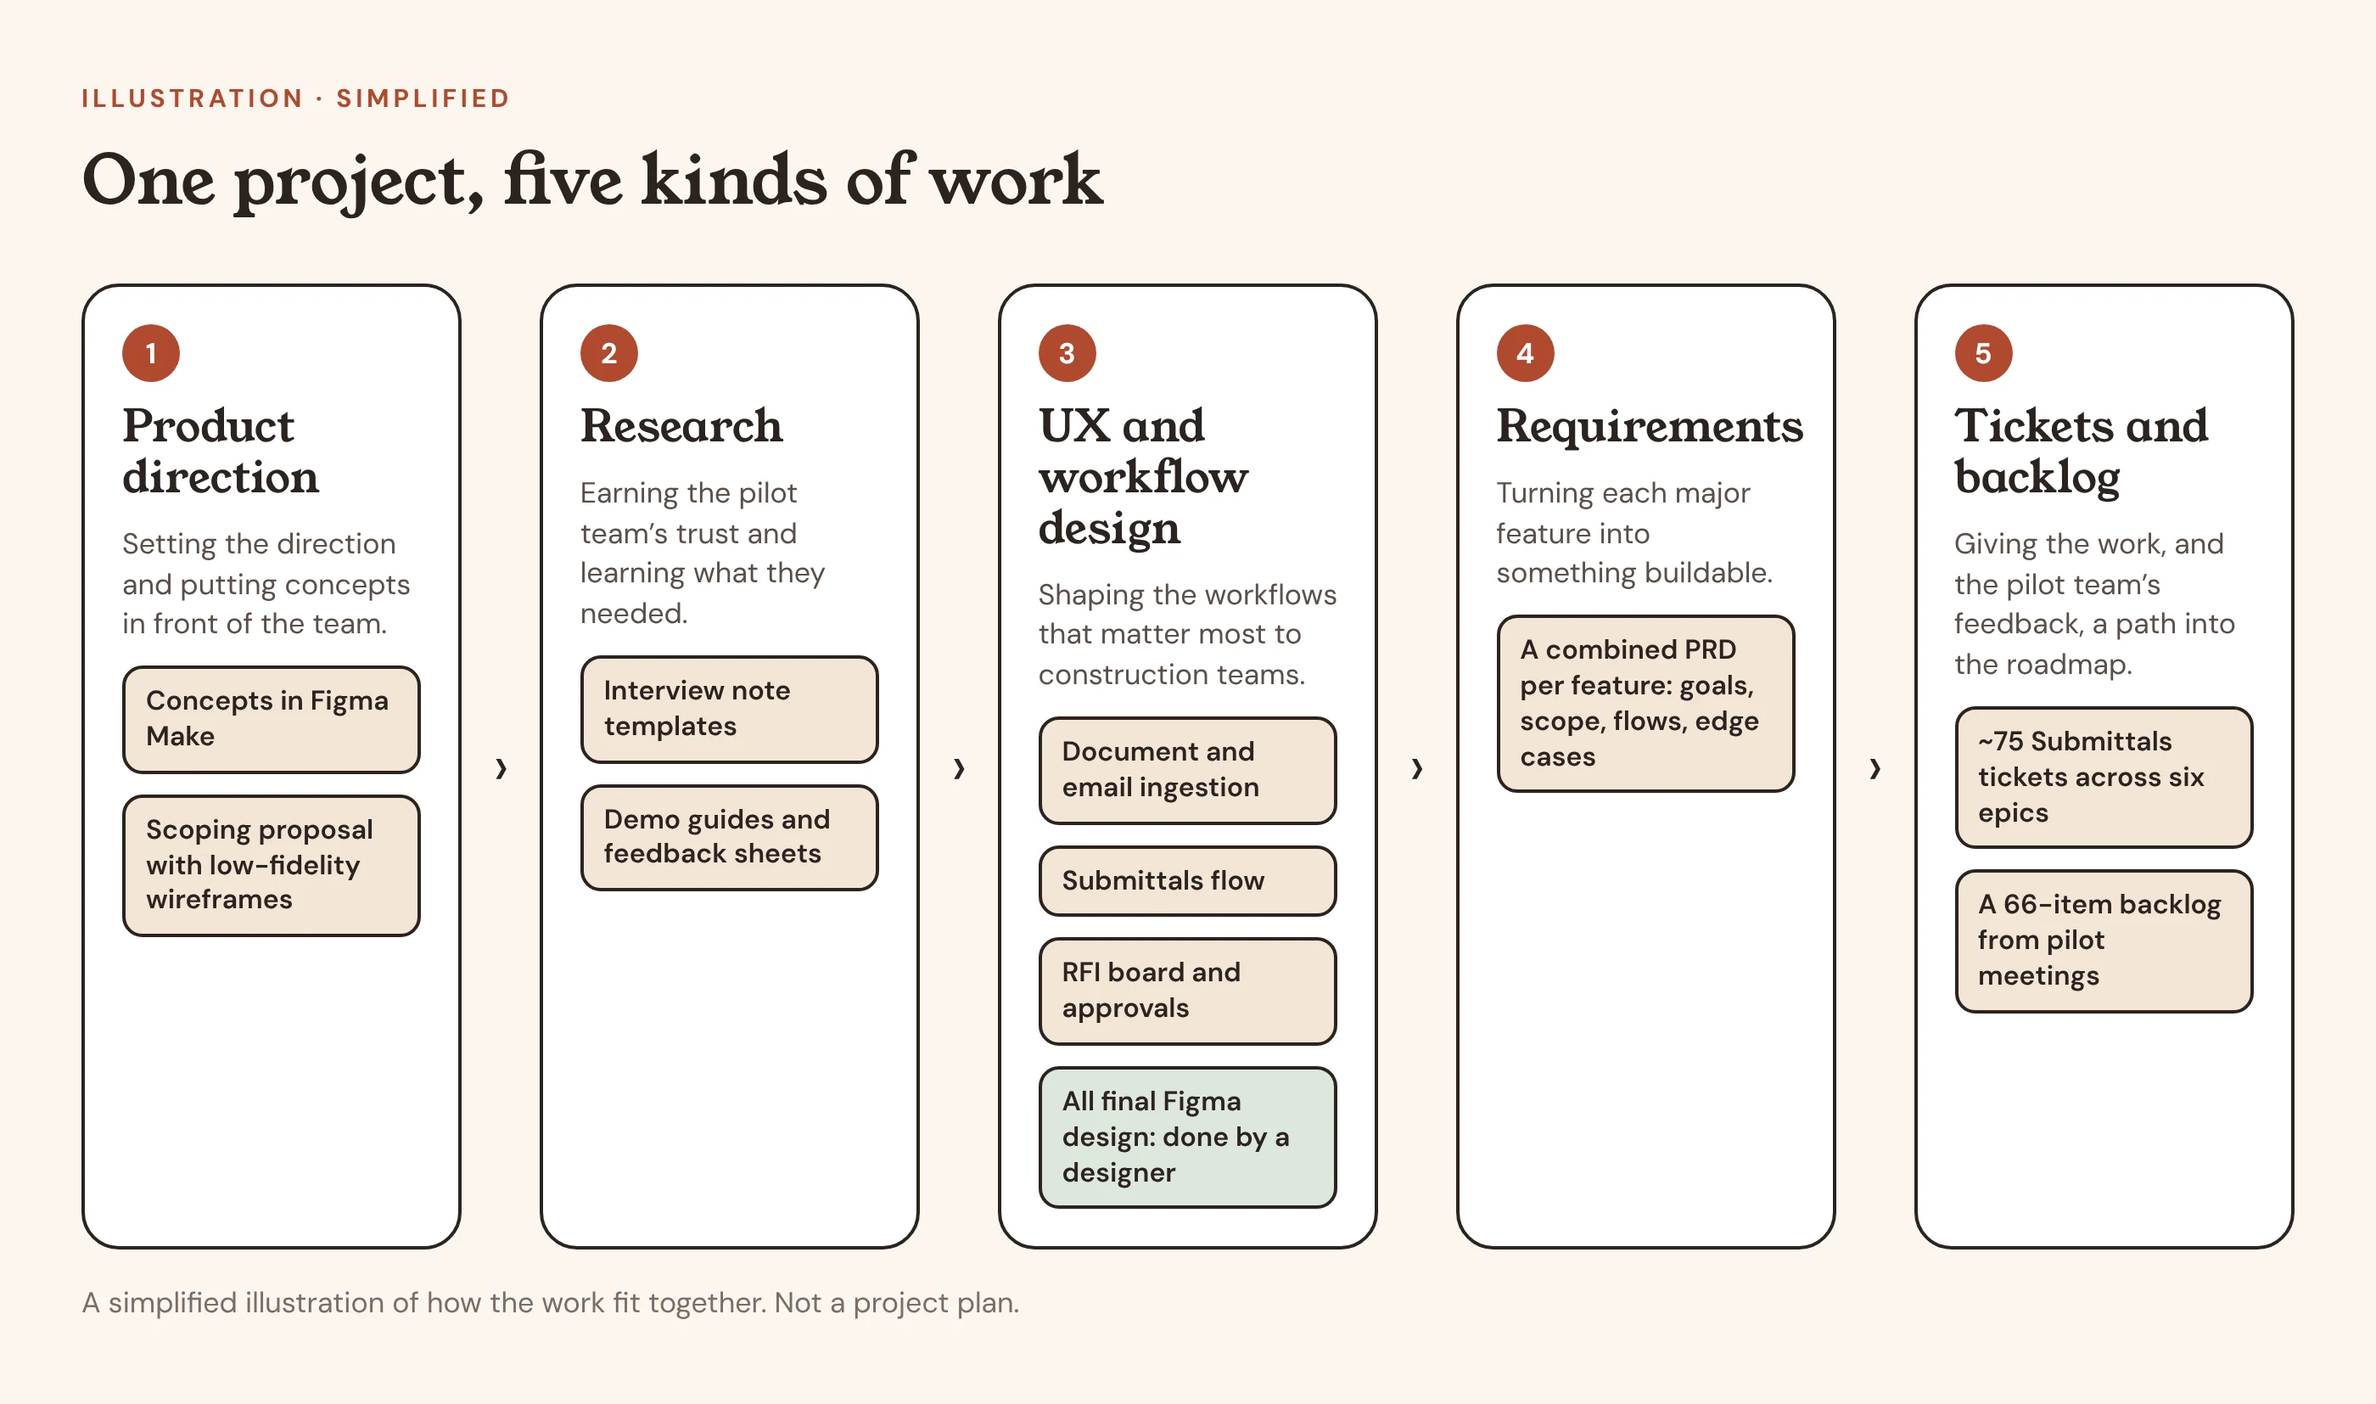
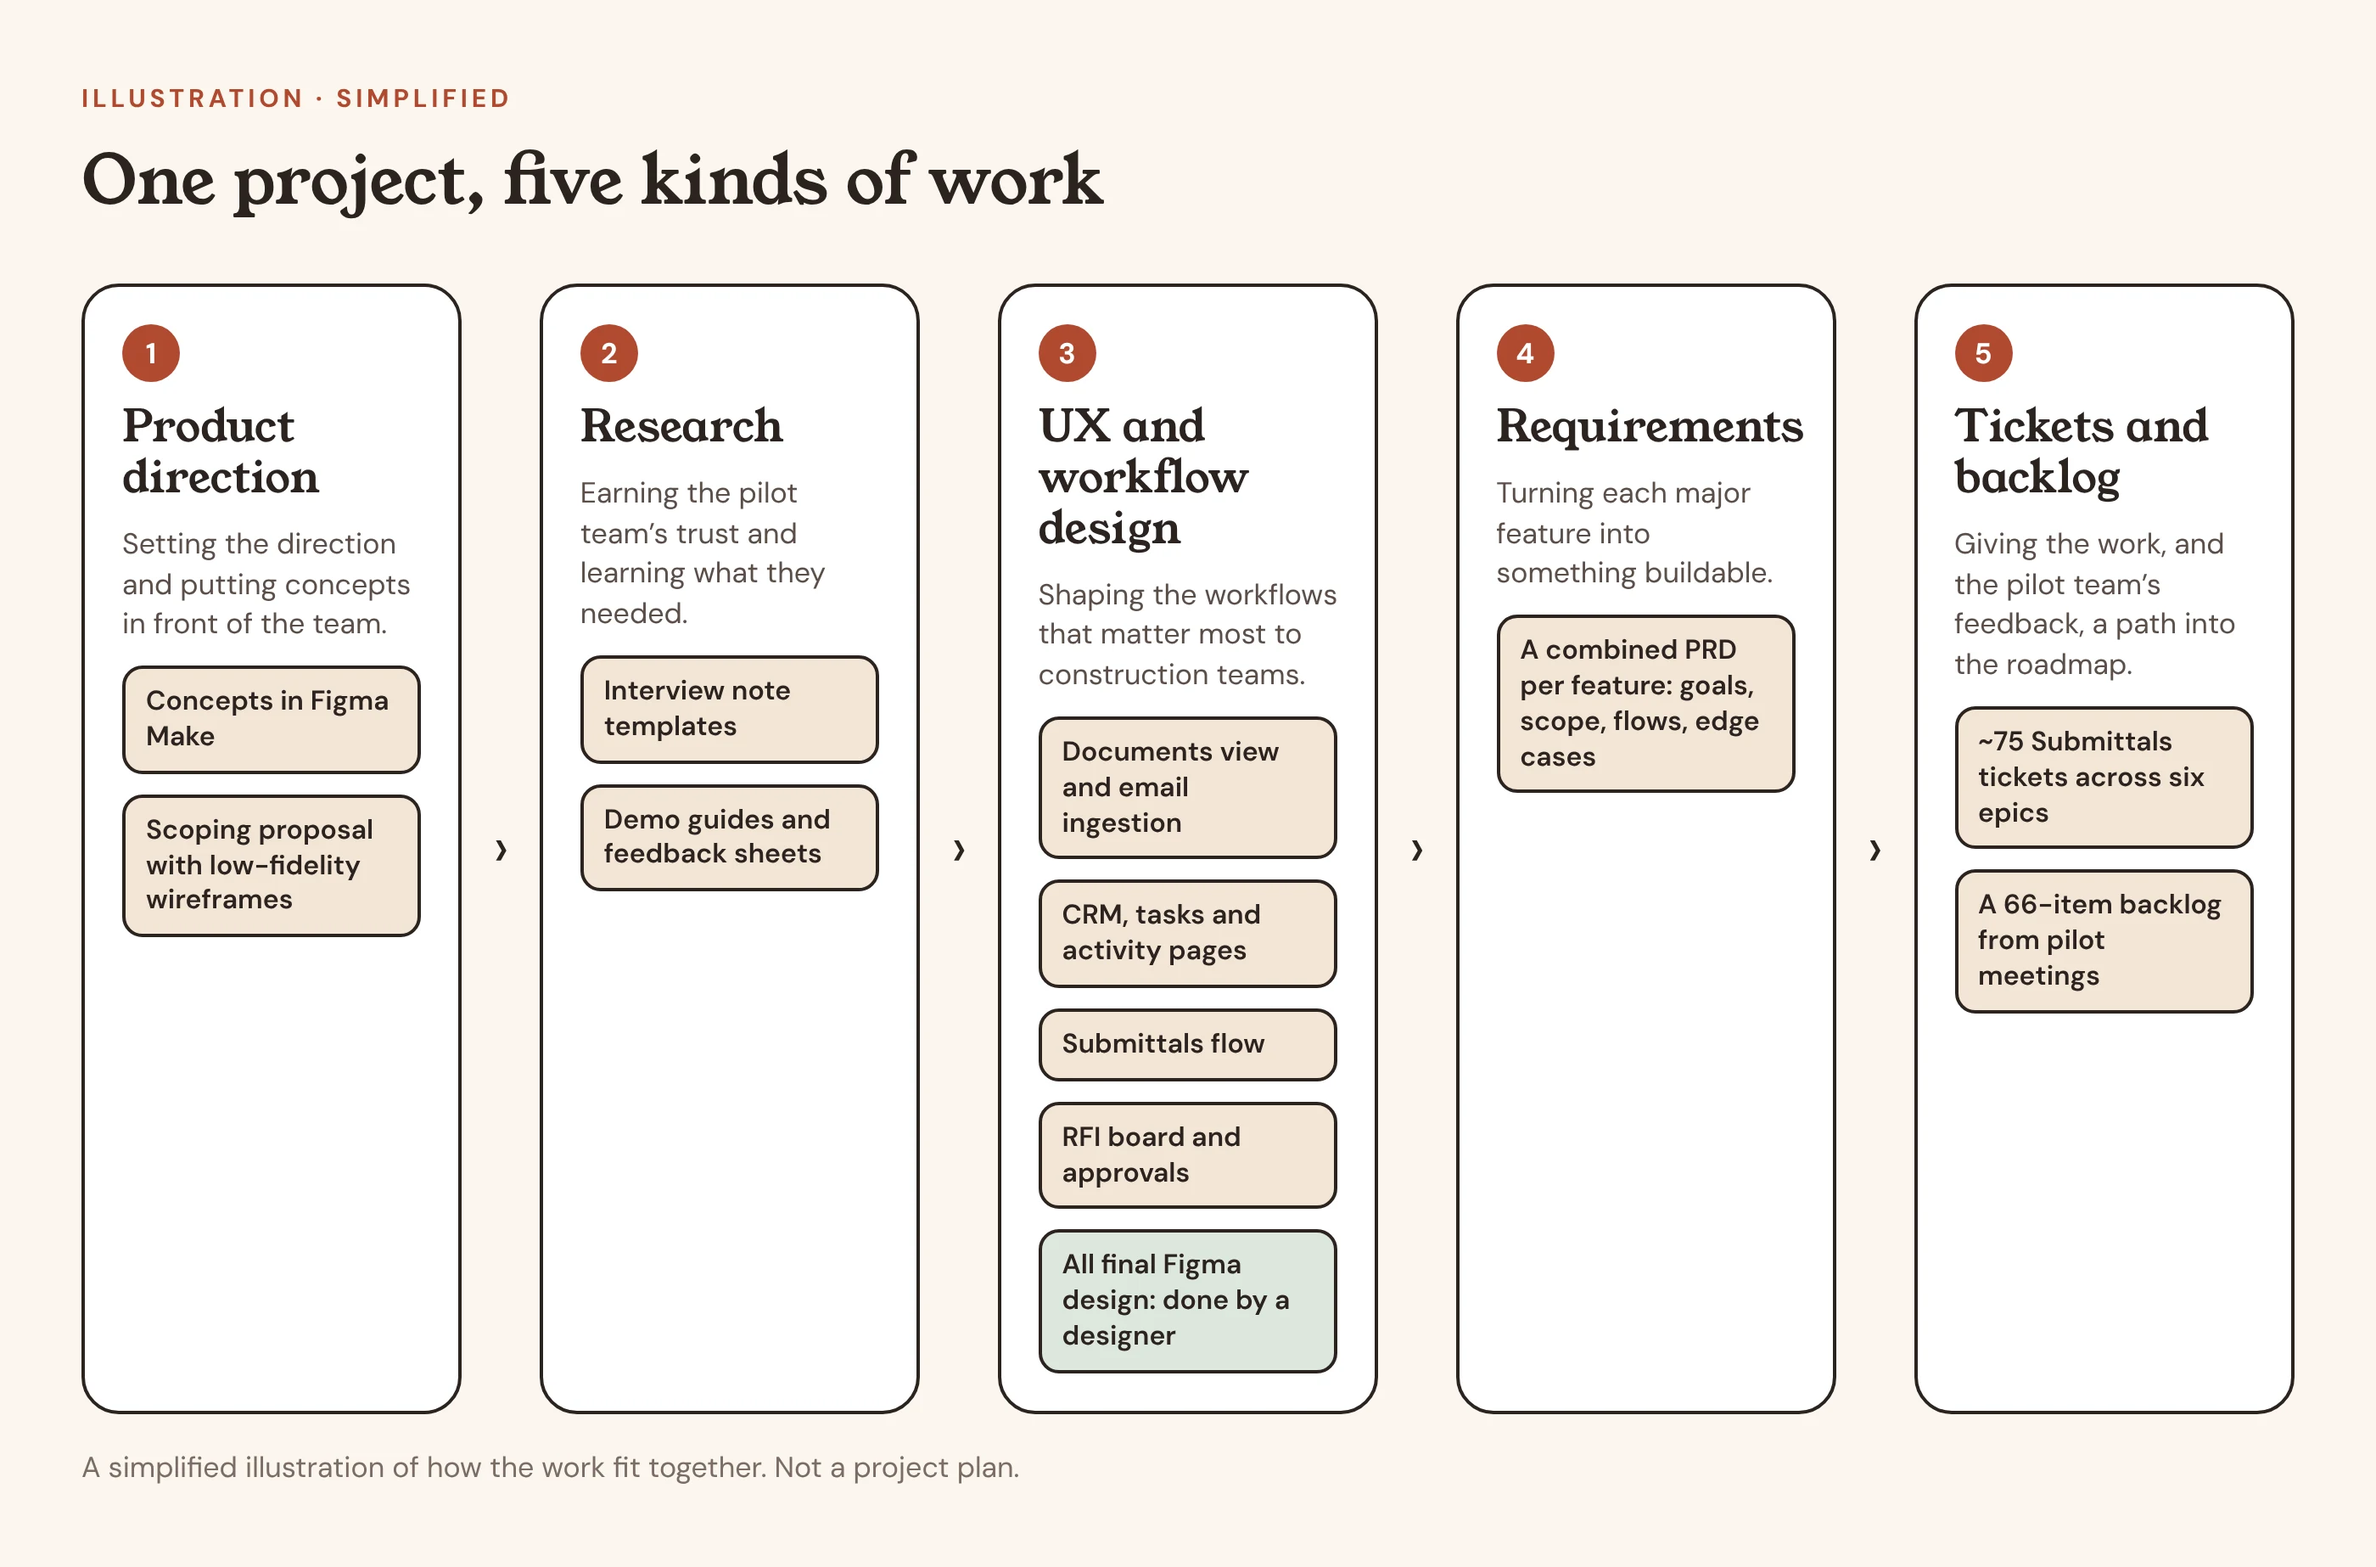
Construction case study: describe full feature scope, update roles diagram
Claude-Session: https://claude.ai/code/session_01GdRQkU6BAW29soLe75xDZn

diff --git a/src/content/caseStudies.ts b/src/content/caseStudies.ts
@@ -567,7 +567,7 @@ export const constructionPlatform: CaseStudy = {
   title: 'AI-first construction platform',
   kicker: 'Professional work · Previous employer · Text only',
   tagline: 'From an empty canvas to a pilot-ready product.',
-  dek: 'A construction platform built from the ground up over about a year. I set the product direction, supported research with the pilot team, shaped the Submittals and RFI workflows, and turned the plan into requirements and tickets the developers could build from. A designer I worked with did all of the final design work in Figma.',
+  dek: 'A construction platform built from the ground up over about a year. I set the product direction, supported research with the pilot team, shaped the product’s features, from the documents view, CRM, tasks and activity pages to the Submittals and RFI workflows, and turned the plan into requirements and tickets the developers could build from. A designer I worked with did all of the final design work in Figma.',
   description:
     'Text-only case study: product direction, UX and requirements for an AI-first construction software platform, from first concepts to a pilot-ready product.',
   meta: {
@@ -579,12 +579,12 @@ export const constructionPlatform: CaseStudy = {
   hero: {
     label: 'Diagram: one project, five kinds of work',
     src: '/construction/roles.webp',
-    alt: 'A simplified diagram of five kinds of work on the project, left to right: product direction (concepts in Figma Make, a scoping proposal), research (interview note templates, demo guides and feedback sheets), UX and workflow design (document and email ingestion, the Submittals flow, the RFI board, with all final Figma design done by a designer), requirements (a PRD per feature), and tickets and backlog (about 75 Submittals tickets across six epics, a 66-item backlog).',
+    alt: 'A simplified diagram of five kinds of work on the project, left to right: product direction (concepts in Figma Make, a scoping proposal), research (interview note templates, demo guides and feedback sheets), UX and workflow design (the documents view with email ingestion, CRM, tasks and activity pages, the Submittals flow, the RFI board, with all final Figma design done by a designer), requirements (a PRD per feature), and tickets and backlog (about 75 Submittals tickets across six epics, a 66-item backlog).',
     caption: 'A simplified illustration of how the work fit together. Not a project plan.',
     priority: true,
     wide: true,
     width: 1400,
-    height: 827,
+    height: 923,
   },
   stats: [
     { value: '~1 yr', label: 'Concept to pilot-ready' },

diff --git a/src/content/projects.ts b/src/content/projects.ts
@@ -59,7 +59,7 @@ export const projects: readonly ProjectSummary[] = [
     slug: 'ai-construction-platform',
     kicker: 'Professional work · Text only',
     title: 'AI-first construction platform',
-    summary: 'Built from an empty canvas to a pilot. I set the direction, shaped Submittals and RFIs, and turned the plan into tickets.',
+    summary: 'Built from an empty canvas to a pilot. I set the direction, shaped the features from documents and CRM to Submittals and RFIs, and turned the plan into tickets.',
     tags: ['Product & UX/UI design', 'AI-first product'],
     group: 'professional',
   },
